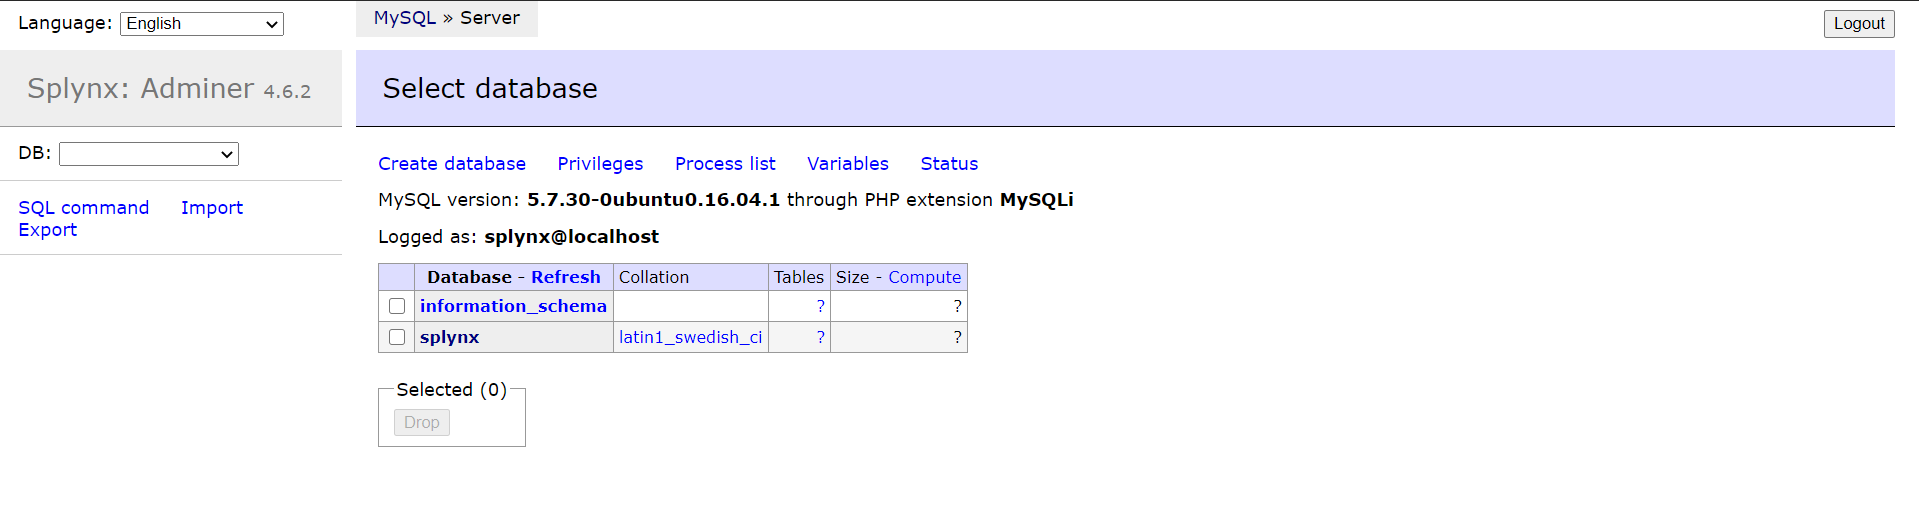
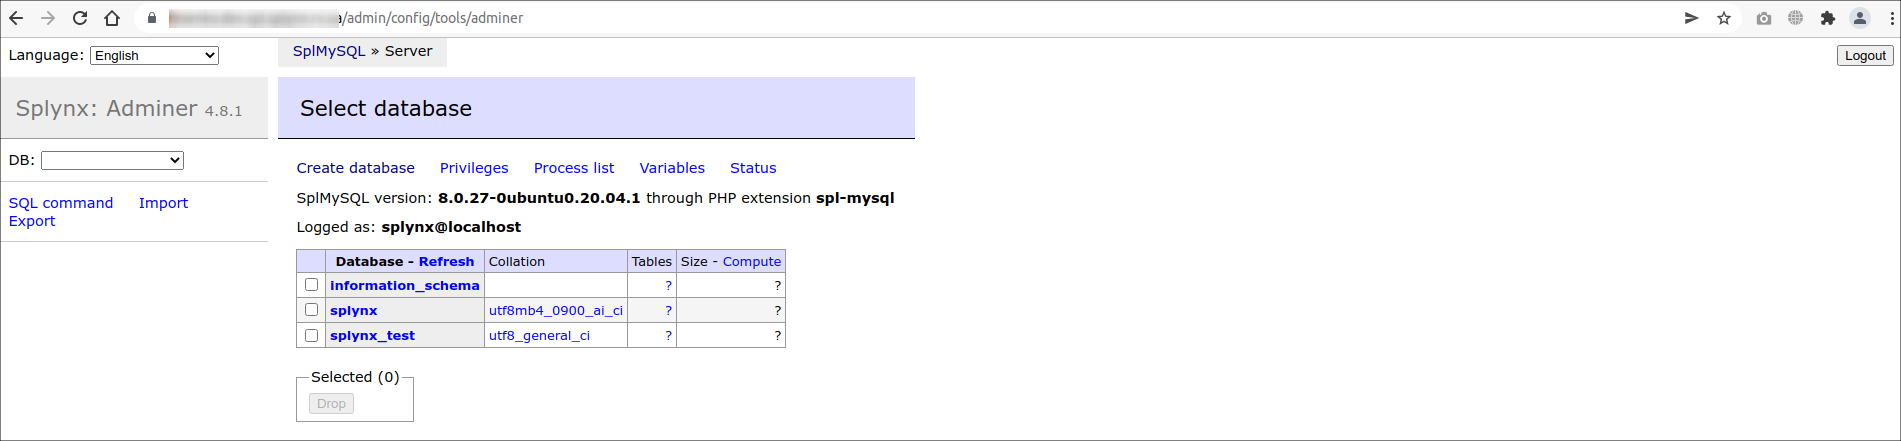
added info from SAADMINER-3, SAADMINER-2 and SPL-7921

Changed region(s): [[0.0, 0.0, 1.0, 0.5306], [0.1552, 0.3537, 0.5587, 0.9433], [0.9932, 0.9728, 1.0, 1.0]]

diff --git a/files/en/configuration/tools/adminer/adminer.md b/files/en/configuration/tools/adminer/adminer.md
@@ -3,16 +3,41 @@ Adminer
 
 ![icon](icon.png)
 
-This is the Splynx tool to access your Splynx server database.
+<icon class="image-icon">![Warning](warning.png)</icon> **Important:**
 
-All the data of your server can be accessed and operated with, using this tool. It is our method of accessing your database to troubleshoot any changes/errors that may have occurred that is inexplicable from the information provided on the GUI of your Splynx server.
+**We strongly advise against using *Adminer* on your own because the changes made in this tool are permanent and can damage your system if something is done incorrectly. The data can be lost if anything is deleted while using this tool and changes to sensitive data can corrupt the database completely. The Splynx team is not responsible for any changes you make to the database using this tool.**
 
-## Important
+The **Adminer** - is a full-featured database management tool used to access your Splynx server database. We use the [fork](https://github.com/splynx/adminer) of the official tool which is adopted to the Splynx requirements.
 
-We strongly advise against using this tool for our customers, as changes made in here are permanent and can cause damage to your system if anything is done incorrectly. Loss of data can occur if anything is deleted while using this tool and database corruption may easily occur if sensitive data is changed. If any issues occur from customers making any changes to the database, we cannot take any responsibility for this.
+All data on your server can be accessed and operated with *Adminer*. This is our method of accessing your database to resolve any changes/errors that may occur or may be inexplicable from the information displayed in the GUI of your Splynx server.
 
-Therefore, please do not use this tool.
+Navigate to `Config → Tools` and click on **Adminer** button, the tool GUI will be opened in a new tab of your browser with the request to enter your administrative password:
 
-This is our management tool for your database.
+![](adminer1.png)
+
+Type your password and press **Confirm** button. After that you can start work with the tool:
 
 ![Adminer](adminer.png)
+
+**NOTE:**
+
+- If you try to drop any database which contains the word `splynx`, the attempt will be blocked;
+
+![Adminer](adminer2.png)
+
+- The actions that have been performed in **Adminer** are logged in `Administration → Logs → Operations`
+
+![Adminer](adminer3.png)
+
+
+
+<details>
+<summary>Related links:</summary>
+<div markdown="1">
+
+- The main features of *Adminer* tool are listed [here](https://www.adminer.org/en/#features) (not all features can be supported in Splynx);
+- [Why is Adminer better than phpMyAdmin?](https://www.adminer.org/en/phpmyadmin/);
+- The online demo of the official *Adminer* tool is available [here](https://demo.adminer.org/adminer.php?username=).
+
+</div>
+</details>
